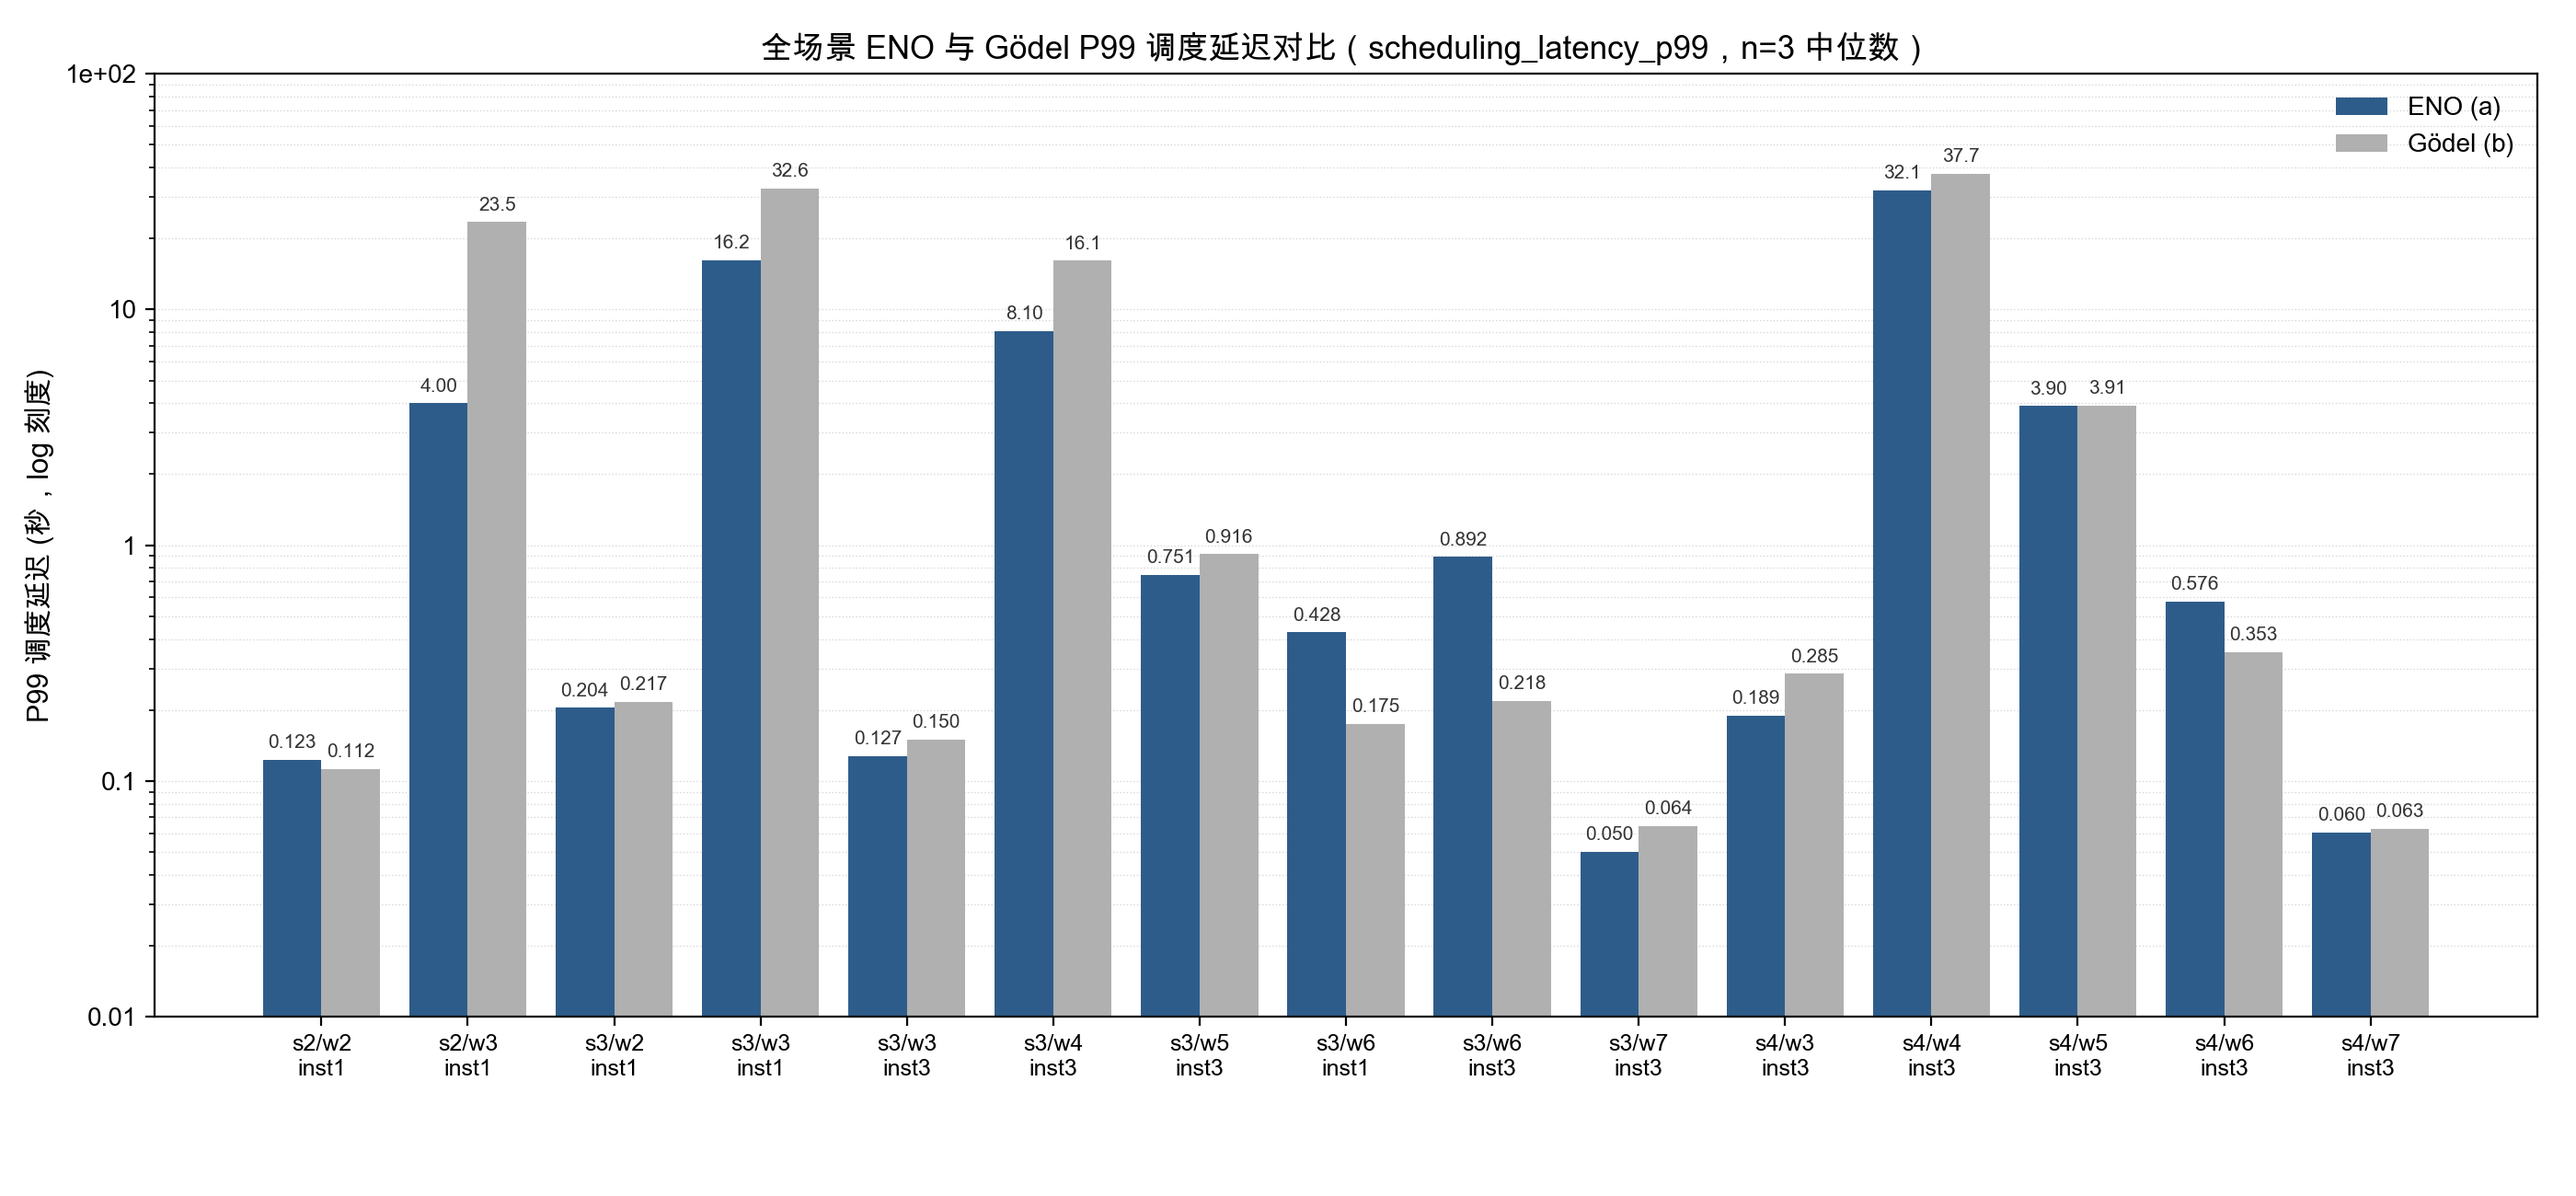
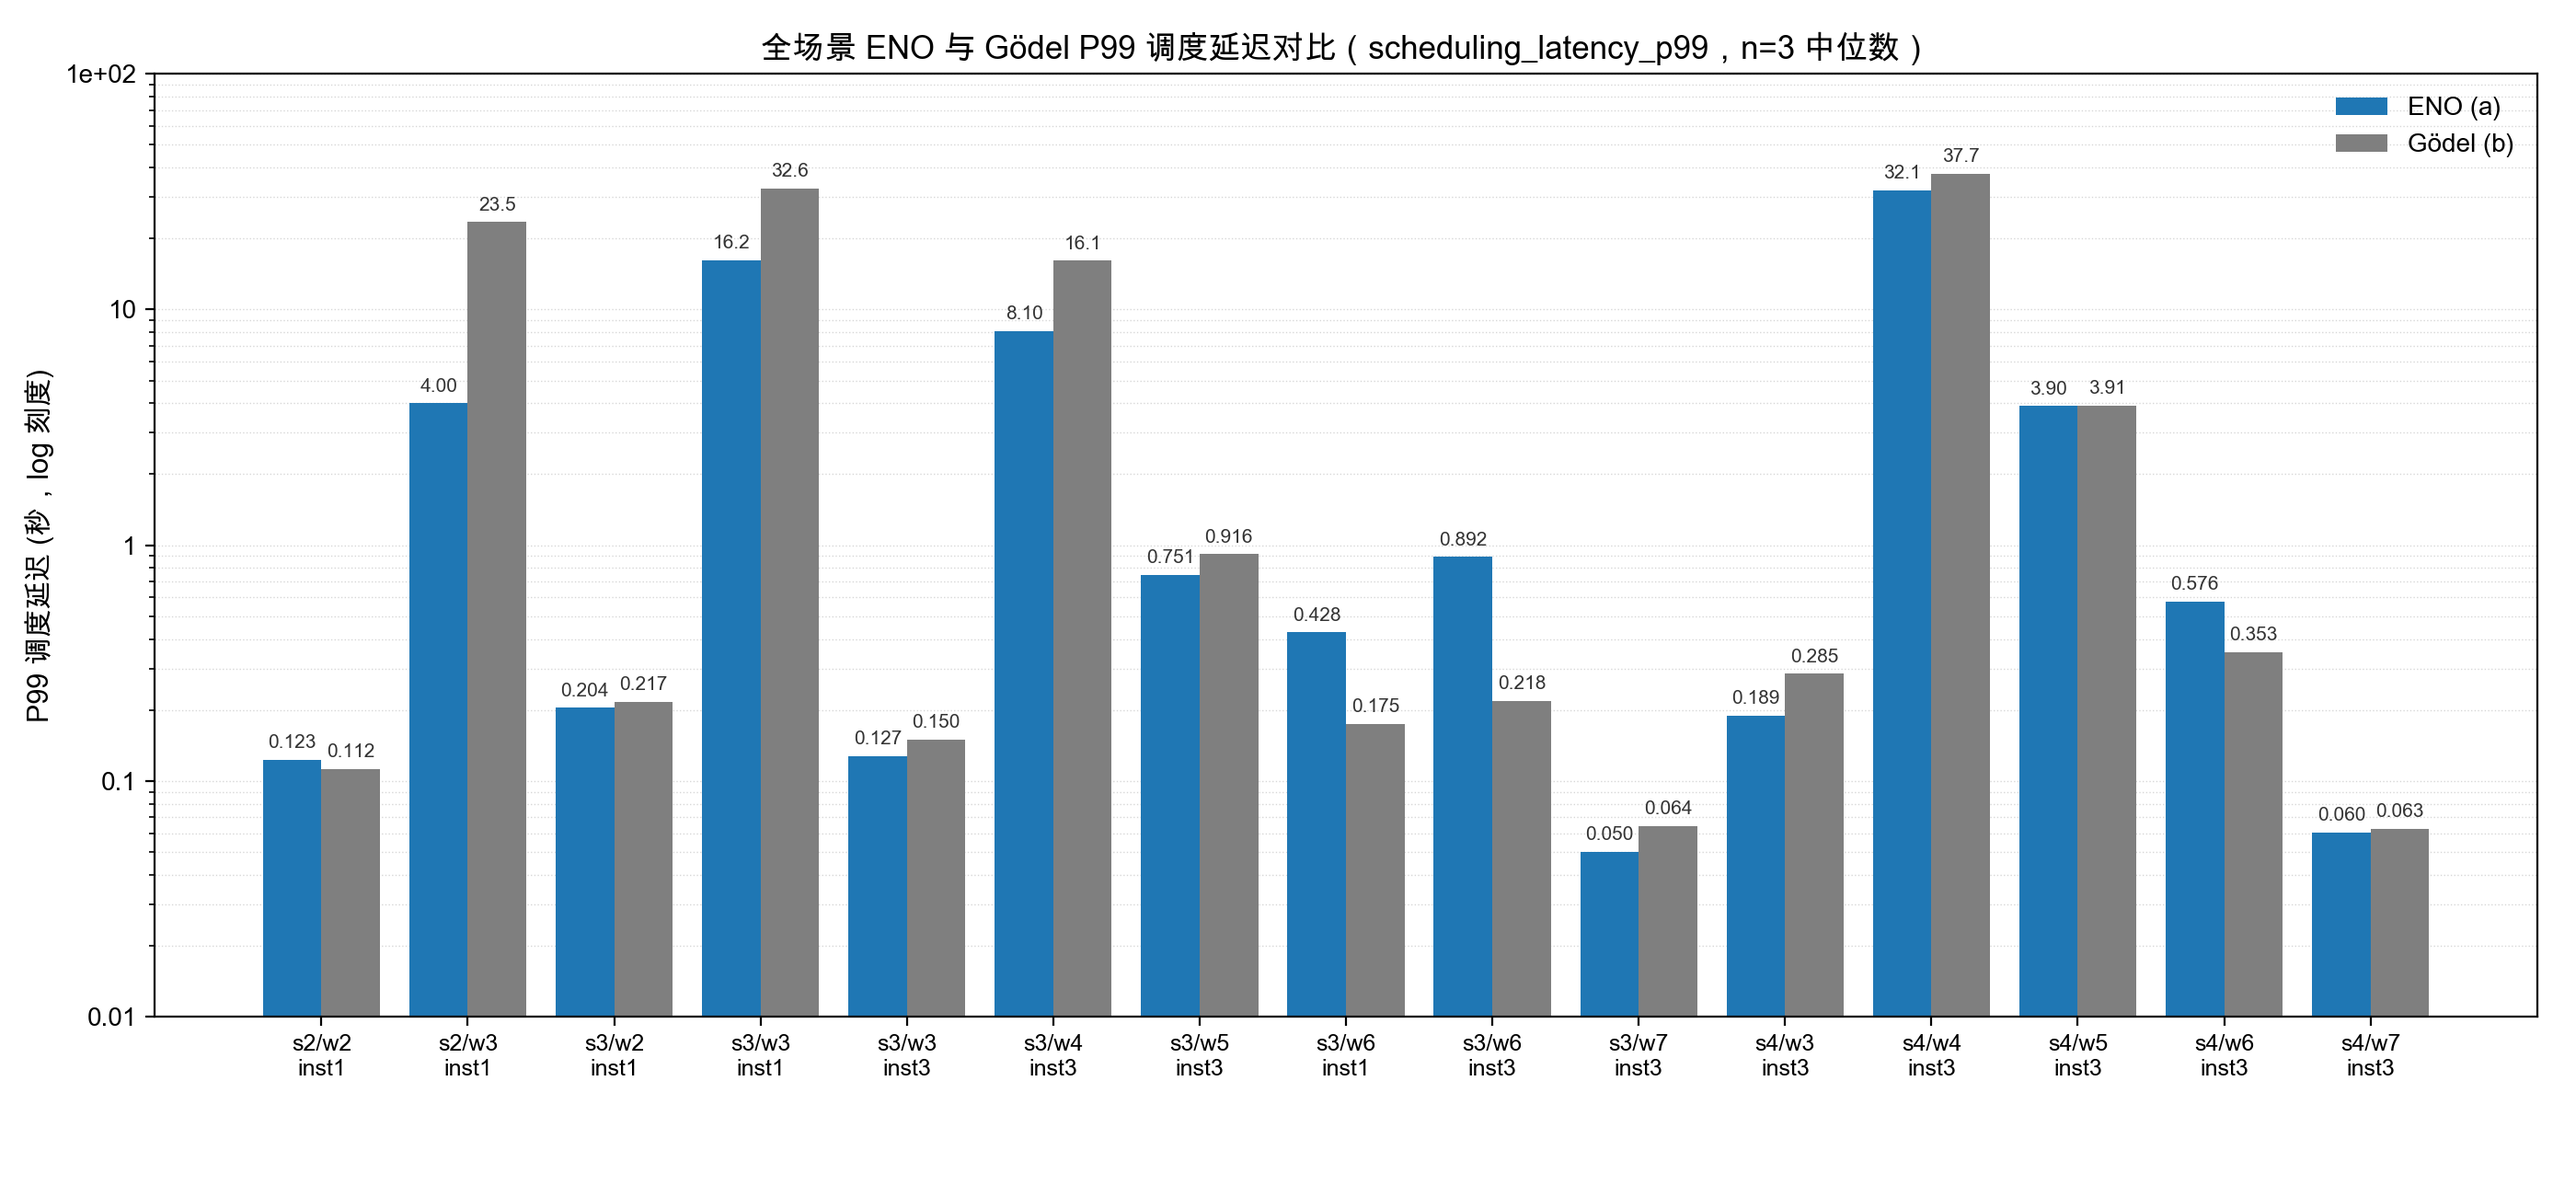
update

Changed region(s): [[0.0932, 0.1231, 0.9632, 0.8615], [0.9011, 0.0615, 0.9321, 0.1231]]

diff --git a/test/e2e/benchmark/collect/gen-peak-throughput-bar.py b/test/e2e/benchmark/collect/gen-peak-throughput-bar.py
@@ -111,8 +111,9 @@ def render(labels: list[str], eno: list[float | None], godel: list[float | None]
     godel_plot = [v if v is not None else 0.0 for v in godel]
 
     fig, ax = plt.subplots(figsize=(15, 5.6))
-    bars_a = ax.bar(x - width / 2, eno_plot,   width, label="ENO (a)",   color="#2196F3", edgecolor="black", linewidth=0.5)
-    bars_b = ax.bar(x + width / 2, godel_plot, width, label="Godel (b)", color="#FF5722", edgecolor="black", linewidth=0.5)
+    # 统一色板 (与 fig6-30 一致): ENO=#1f77b4 tab:blue, Gödel=#7f7f7f tab:gray
+    bars_a = ax.bar(x - width / 2, eno_plot,   width, label="ENO (a)",   color="#1f77b4", edgecolor="black", linewidth=0.5)
+    bars_b = ax.bar(x + width / 2, godel_plot, width, label="Godel (b)", color="#7f7f7f", edgecolor="black", linewidth=0.5)
 
     ax.set_xticks(x)
     ax.set_xticklabels(labels, fontsize=9)

diff --git a/test/e2e/benchmark/collect/gen-e2e-latency-bar.py b/test/e2e/benchmark/collect/gen-e2e-latency-bar.py
@@ -93,8 +93,9 @@ def render(labels: list[str], eno: list[float | None], godel: list[float | None]
     godel_plot = [v if v is not None and v > 0 else sentinel for v in godel]
 
     fig, ax = plt.subplots(figsize=(15, 5.6))
-    bars_a = ax.bar(x - width / 2, eno_plot,   width, label="ENO (a)",   color="#2196F3", edgecolor="black", linewidth=0.5)
-    bars_b = ax.bar(x + width / 2, godel_plot, width, label="Godel (b)", color="#FF5722", edgecolor="black", linewidth=0.5)
+    # 统一色板 (与 fig6-30 一致): ENO=#1f77b4 tab:blue, Gödel=#7f7f7f tab:gray
+    bars_a = ax.bar(x - width / 2, eno_plot,   width, label="ENO (a)",   color="#1f77b4", edgecolor="black", linewidth=0.5)
+    bars_b = ax.bar(x + width / 2, godel_plot, width, label="Godel (b)", color="#7f7f7f", edgecolor="black", linewidth=0.5)
 
     ax.set_yscale("log")
     ax.set_xticks(x)

diff --git a/docs/thesis/figures/make-fig6-3-5group-throughput.py b/docs/thesis/figures/make-fig6-3-5group-throughput.py
@@ -44,12 +44,13 @@ RESULTS_DIR = (
 OUT_DEFAULT = Path(__file__).resolve().parent / "fig6-3-throughput-5group.png"
 
 SCENARIOS = ["s1_w1", "s2_w2", "s2_w3", "s3_w2", "s3_w3"]
+# 统一色板 (tab10, 与 fig6-30 及其他柱状图一致)
 GROUPS = [
-    ("a", "ENO",            "#2E5C8A"),
-    ("b", "Gödel",          "#7FA1C7"),
-    ("c", "kube-scheduler", "#B8B8B8"),
-    ("d", "Volcano",        "#D28D5B"),
-    ("e", "Koordinator",    "#7BAA6E"),
+    ("a", "ENO",            "#1f77b4"),   # tab:blue,   主 focus
+    ("b", "Gödel",          "#7f7f7f"),   # tab:gray,   参照基线
+    ("c", "kube-scheduler", "#ff7f0e"),   # tab:orange
+    ("d", "Volcano",        "#2ca02c"),   # tab:green
+    ("e", "Koordinator",    "#9467bd"),   # tab:purple
 ]
 
 

diff --git a/test/e2e/benchmark/collect/gen-w6-bar-charts.py b/test/e2e/benchmark/collect/gen-w6-bar-charts.py
@@ -124,7 +124,9 @@ def load_p99_latency(group_dir: Path) -> tuple[float, str]:
 
 def render_bar_chart(labels, values, ylabel, title, out_path):
     fig, ax = plt.subplots(figsize=(6.4, 4.5))
-    colors = ["#2196F3", "#FF5722", "#4CAF50"]
+    # 统一色板 (与 fig6-30 一致): a=ENO/blue, b=Godel/gray, d=Volcano/green
+    # 顺序对应 CONFIGS: a, b, d
+    colors = ["#1f77b4", "#7f7f7f", "#2ca02c"]
     bars = ax.bar(
         labels, values, color=colors[: len(labels)], edgecolor="black", linewidth=0.6
     )

diff --git a/docs/thesis/figures/make-fig6-4-latency-p99-all.py b/docs/thesis/figures/make-fig6-4-latency-p99-all.py
@@ -42,8 +42,8 @@ ROOT = Path(__file__).resolve().parent.parent.parent.parent
 LATENCY_COMPARE = ROOT / "test" / "e2e" / "benchmark" / "collect" / "latency-compare.py"
 OUT_DEFAULT = Path(__file__).resolve().parent / "fig6-4-latency-p99-all.png"
 
-ENO_COLOR = "#2E5C8A"
-GODEL_COLOR = "#B0B0B0"
+ENO_COLOR = "#1f77b4"    # tab:blue, 与 fig6-30 统一
+GODEL_COLOR = "#7f7f7f"  # tab:gray, 参照基线
 
 # 表 6-6 场景顺序（跳过 s1/w1，因为 a 侧 P99 数据点不足）
 SCENARIOS = [

diff --git a/docs/thesis/figures/make-fig6-3.py b/docs/thesis/figures/make-fig6-3.py
@@ -48,8 +48,8 @@ RESULTS_DIR = (
 COMPARE_DIR = RESULTS_DIR / "compare"
 OUT_DEFAULT = Path(__file__).resolve().parent / "fig6-3-effective-throughput.png"
 
-ENO_COLOR = "#2E5C8A"
-GODEL_COLOR = "#B0B0B0"
+ENO_COLOR = "#1f77b4"    # tab:blue, 与 fig6-30 统一
+GODEL_COLOR = "#7f7f7f"  # tab:gray, 参照基线
 
 # 重采前的 w6 旧值（10 000 Pod 规模），仅用于 --legacy-values 校验脚本还原度
 LEGACY = {
